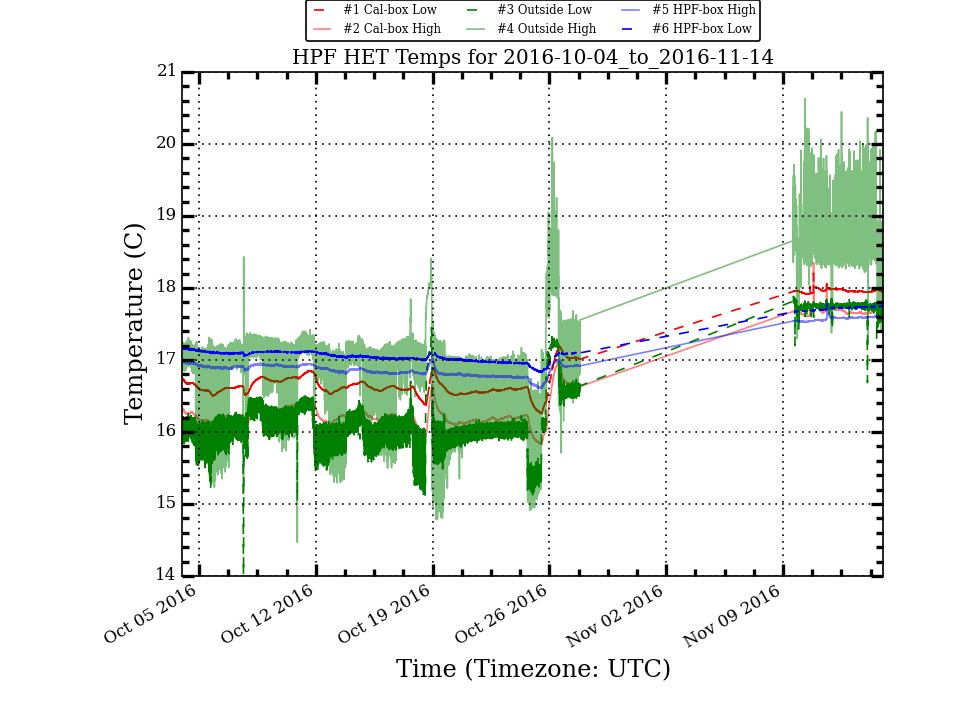
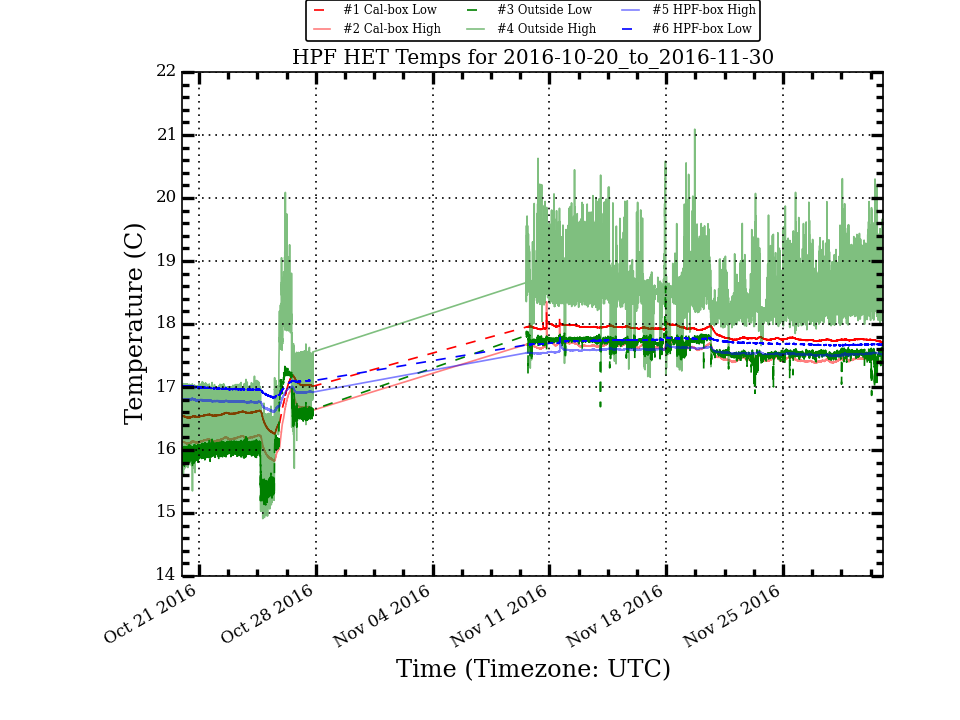
Update HPF Temp Plots

diff --git a/research/hpf_temps/plots/LakeShoreLogTotal_week_stats.html b/research/hpf_temps/plots/LakeShoreLogTotal_week_stats.html
@@ -10,56 +10,56 @@
  </TR>
  <TR>
   <TD>Cal_Low</TD>
-  <TD>17.840</TD>
-  <TD>0.315</TD>
-  <TD>17.954</TD>
-  <TD>18.205</TD>
-  <TD>17.010</TD>
-  <TD>1.195</TD>
+  <TD>17.750</TD>
+  <TD>0.014</TD>
+  <TD>17.750</TD>
+  <TD>17.787</TD>
+  <TD>17.714</TD>
+  <TD>0.073</TD>
  </TR>
  <TR>
   <TD>Cal_High</TD>
-  <TD>17.543</TD>
-  <TD>0.340</TD>
-  <TD>17.658</TD>
-  <TD>18.353</TD>
-  <TD>16.621</TD>
-  <TD>1.732</TD>
+  <TD>17.430</TD>
+  <TD>0.023</TD>
+  <TD>17.429</TD>
+  <TD>17.496</TD>
+  <TD>17.379</TD>
+  <TD>0.117</TD>
  </TR>
  <TR>
   <TD>Out_Low</TD>
-  <TD>17.585</TD>
-  <TD>0.389</TD>
-  <TD>17.735</TD>
-  <TD>17.883</TD>
-  <TD>16.459</TD>
-  <TD>1.424</TD>
+  <TD>17.508</TD>
+  <TD>0.069</TD>
+  <TD>17.522</TD>
+  <TD>17.629</TD>
+  <TD>16.867</TD>
+  <TD>0.762</TD>
  </TR>
  <TR>
   <TD>Out_High</TD>
-  <TD>18.522</TD>
-  <TD>0.571</TD>
-  <TD>18.567</TD>
-  <TD>20.629</TD>
-  <TD>16.404</TD>
-  <TD>4.225</TD>
+  <TD>18.420</TD>
+  <TD>0.325</TD>
+  <TD>18.328</TD>
+  <TD>20.307</TD>
+  <TD>17.849</TD>
+  <TD>2.458</TD>
  </TR>
  <TR>
   <TD>HPF_High</TD>
-  <TD>17.489</TD>
-  <TD>0.223</TD>
-  <TD>17.581</TD>
-  <TD>17.780</TD>
-  <TD>16.905</TD>
-  <TD>0.875</TD>
+  <TD>17.518</TD>
+  <TD>0.012</TD>
+  <TD>17.520</TD>
+  <TD>17.547</TD>
+  <TD>17.487</TD>
+  <TD>0.060</TD>
  </TR>
  <TR>
   <TD>HPF_Low</TD>
-  <TD>17.635</TD>
-  <TD>0.211</TD>
-  <TD>17.724</TD>
-  <TD>17.783</TD>
-  <TD>17.083</TD>
-  <TD>0.700</TD>
+  <TD>17.675</TD>
+  <TD>0.008</TD>
+  <TD>17.674</TD>
+  <TD>17.694</TD>
+  <TD>17.652</TD>
+  <TD>0.042</TD>
  </TR>
 </TABLE>

diff --git a/research/hpf_temps/plots/LakeShoreLogTotal_month_stats.html b/research/hpf_temps/plots/LakeShoreLogTotal_month_stats.html
@@ -10,56 +10,56 @@
  </TR>
  <TR>
   <TD>Cal_Low</TD>
-  <TD>16.887</TD>
-  <TD>0.529</TD>
-  <TD>16.634</TD>
+  <TD>17.534</TD>
+  <TD>0.558</TD>
+  <TD>17.763</TD>
   <TD>18.205</TD>
   <TD>16.258</TD>
   <TD>1.947</TD>
  </TR>
  <TR>
   <TD>Cal_High</TD>
-  <TD>16.513</TD>
-  <TD>0.577</TD>
-  <TD>16.235</TD>
+  <TD>17.210</TD>
+  <TD>0.595</TD>
+  <TD>17.447</TD>
   <TD>18.353</TD>
   <TD>15.827</TD>
   <TD>2.526</TD>
  </TR>
  <TR>
   <TD>Out_Low</TD>
-  <TD>16.401</TD>
-  <TD>0.707</TD>
-  <TD>16.113</TD>
-  <TD>17.883</TD>
-  <TD>14.006</TD>
-  <TD>3.877</TD>
+  <TD>17.229</TD>
+  <TD>0.699</TD>
+  <TD>17.534</TD>
+  <TD>18.598</TD>
+  <TD>15.128</TD>
+  <TD>3.470</TD>
  </TR>
  <TR>
   <TD>Out_High</TD>
-  <TD>17.219</TD>
-  <TD>0.860</TD>
-  <TD>17.048</TD>
-  <TD>20.629</TD>
-  <TD>14.470</TD>
-  <TD>6.159</TD>
+  <TD>18.072</TD>
+  <TD>0.835</TD>
+  <TD>18.334</TD>
+  <TD>21.092</TD>
+  <TD>14.911</TD>
+  <TD>6.181</TD>
  </TR>
  <TR>
   <TD>HPF_High</TD>
-  <TD>16.987</TD>
-  <TD>0.288</TD>
-  <TD>16.893</TD>
+  <TD>17.357</TD>
+  <TD>0.343</TD>
+  <TD>17.532</TD>
   <TD>17.780</TD>
   <TD>16.605</TD>
   <TD>1.175</TD>
  </TR>
  <TR>
   <TD>HPF_Low</TD>
-  <TD>17.170</TD>
-  <TD>0.267</TD>
-  <TD>17.088</TD>
-  <TD>17.783</TD>
+  <TD>17.518</TD>
+  <TD>0.326</TD>
+  <TD>17.684</TD>
+  <TD>17.785</TD>
   <TD>16.829</TD>
-  <TD>0.954</TD>
+  <TD>0.956</TD>
  </TR>
 </TABLE>
